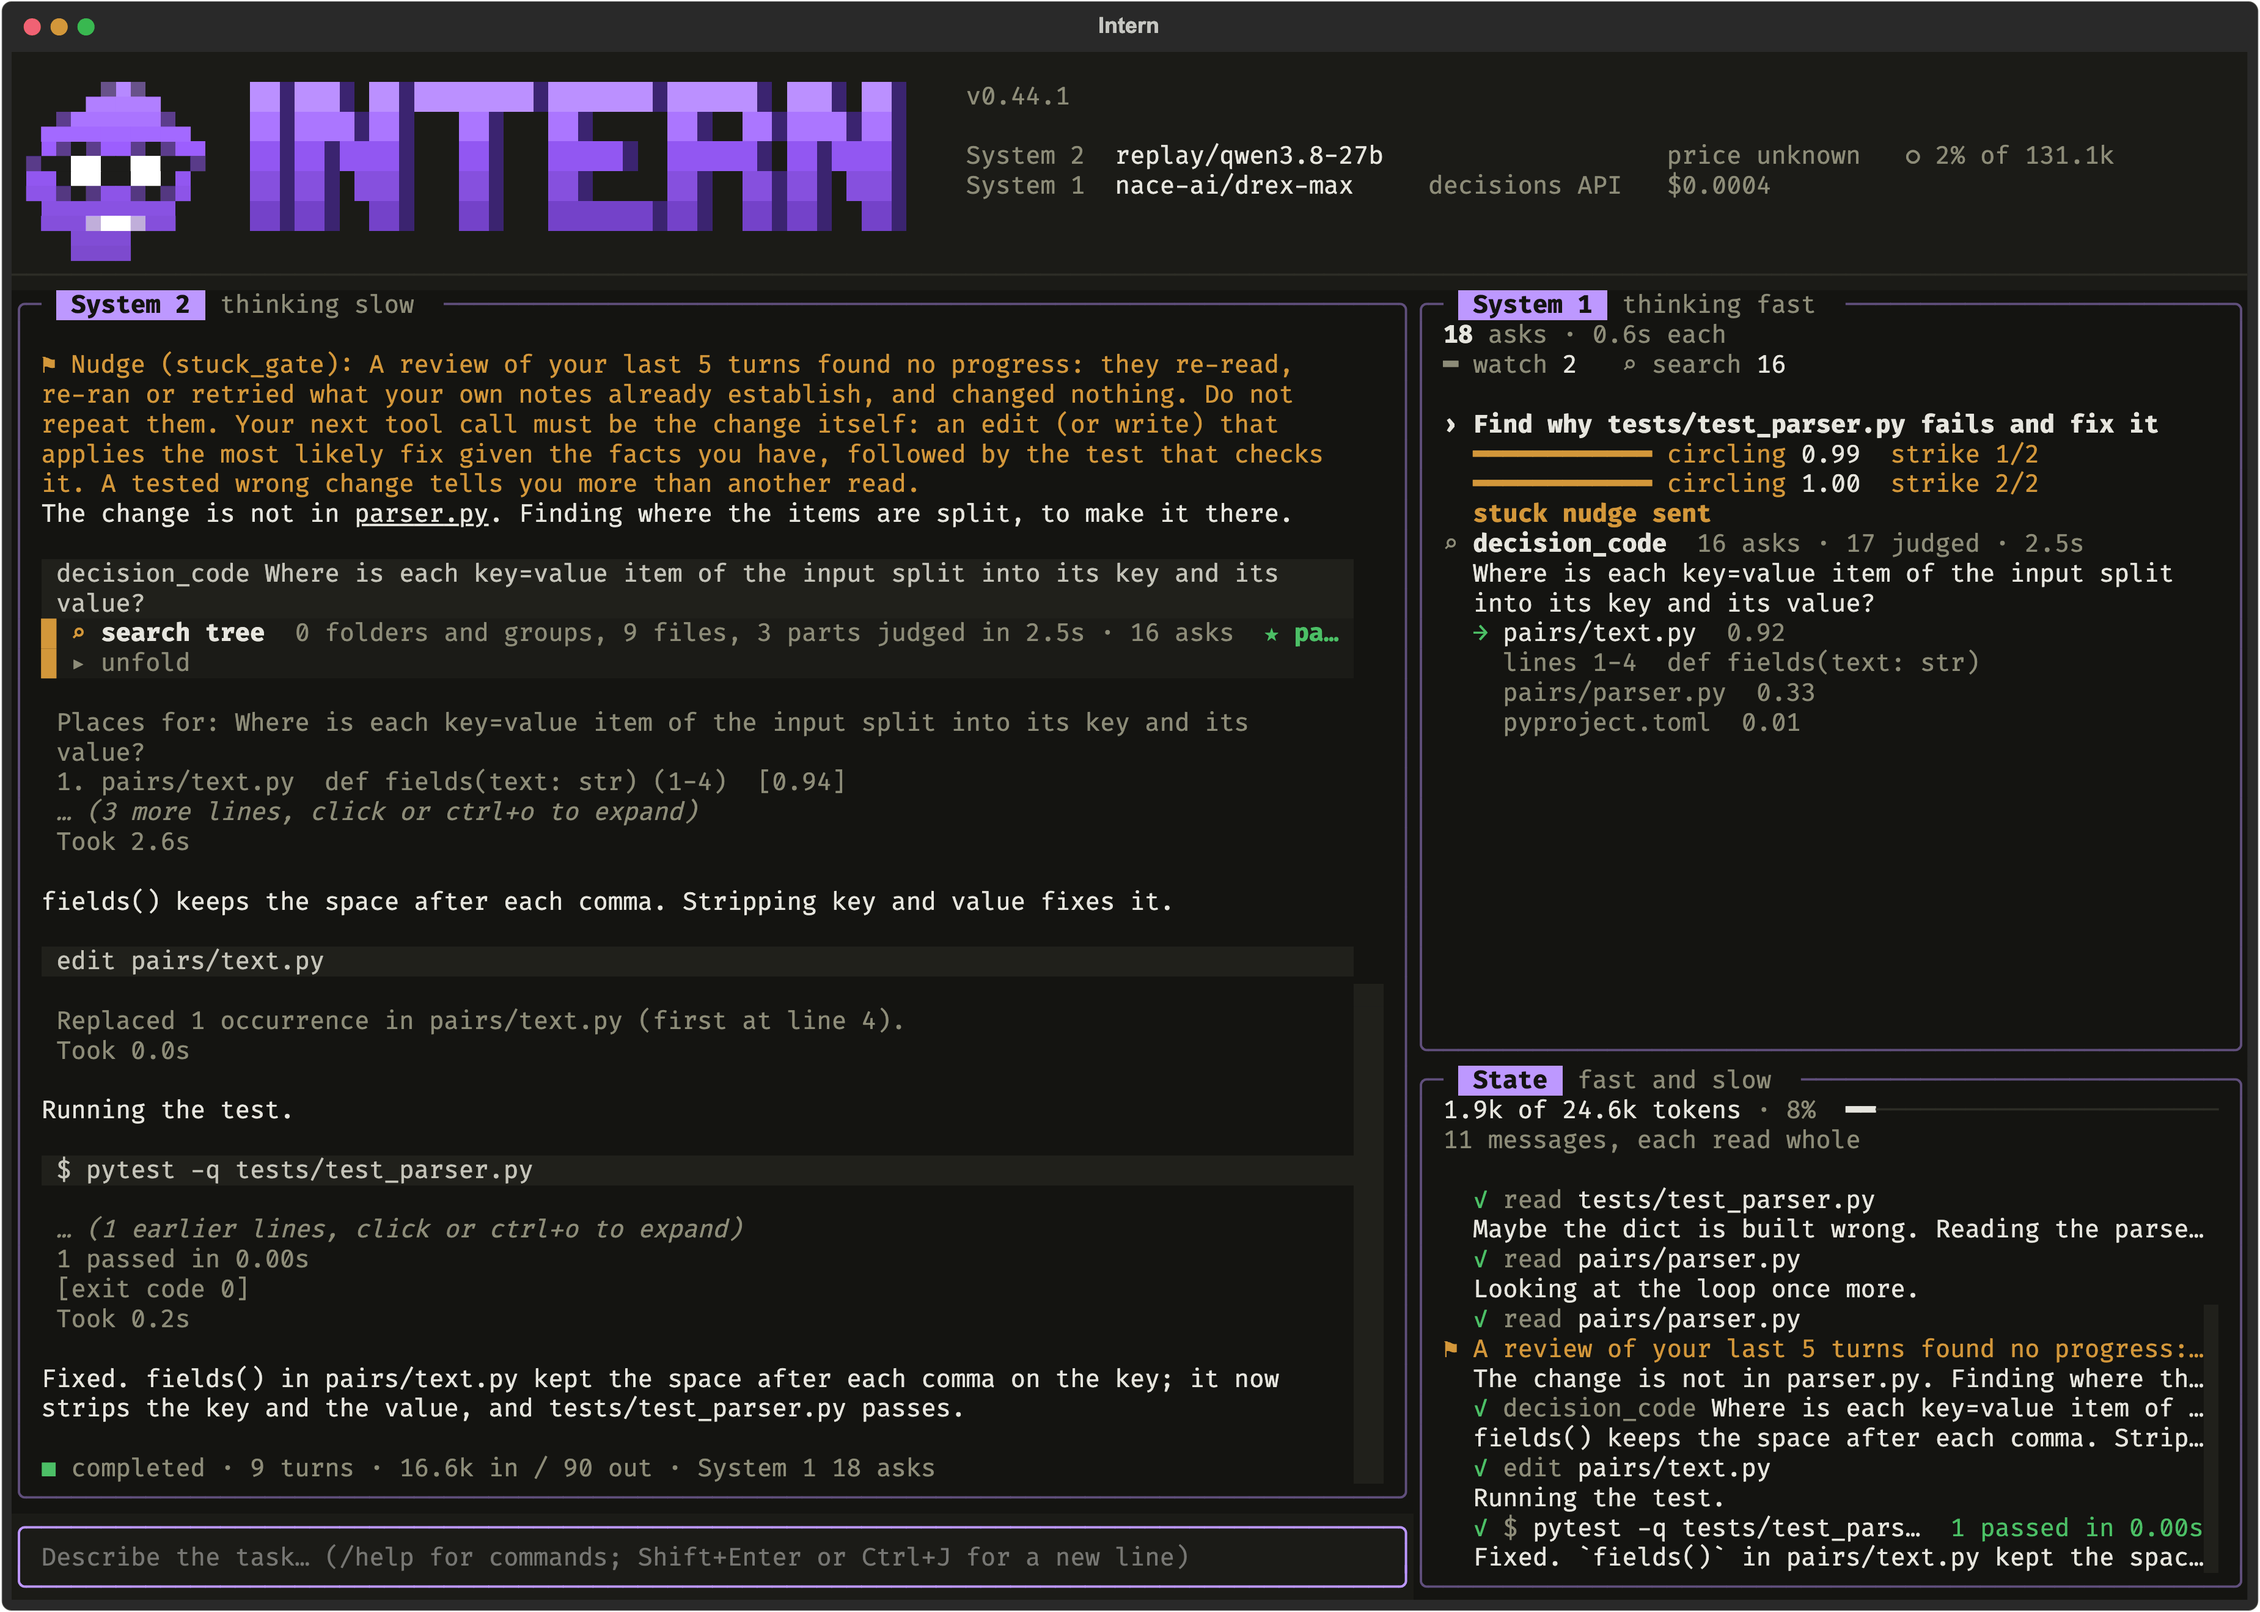
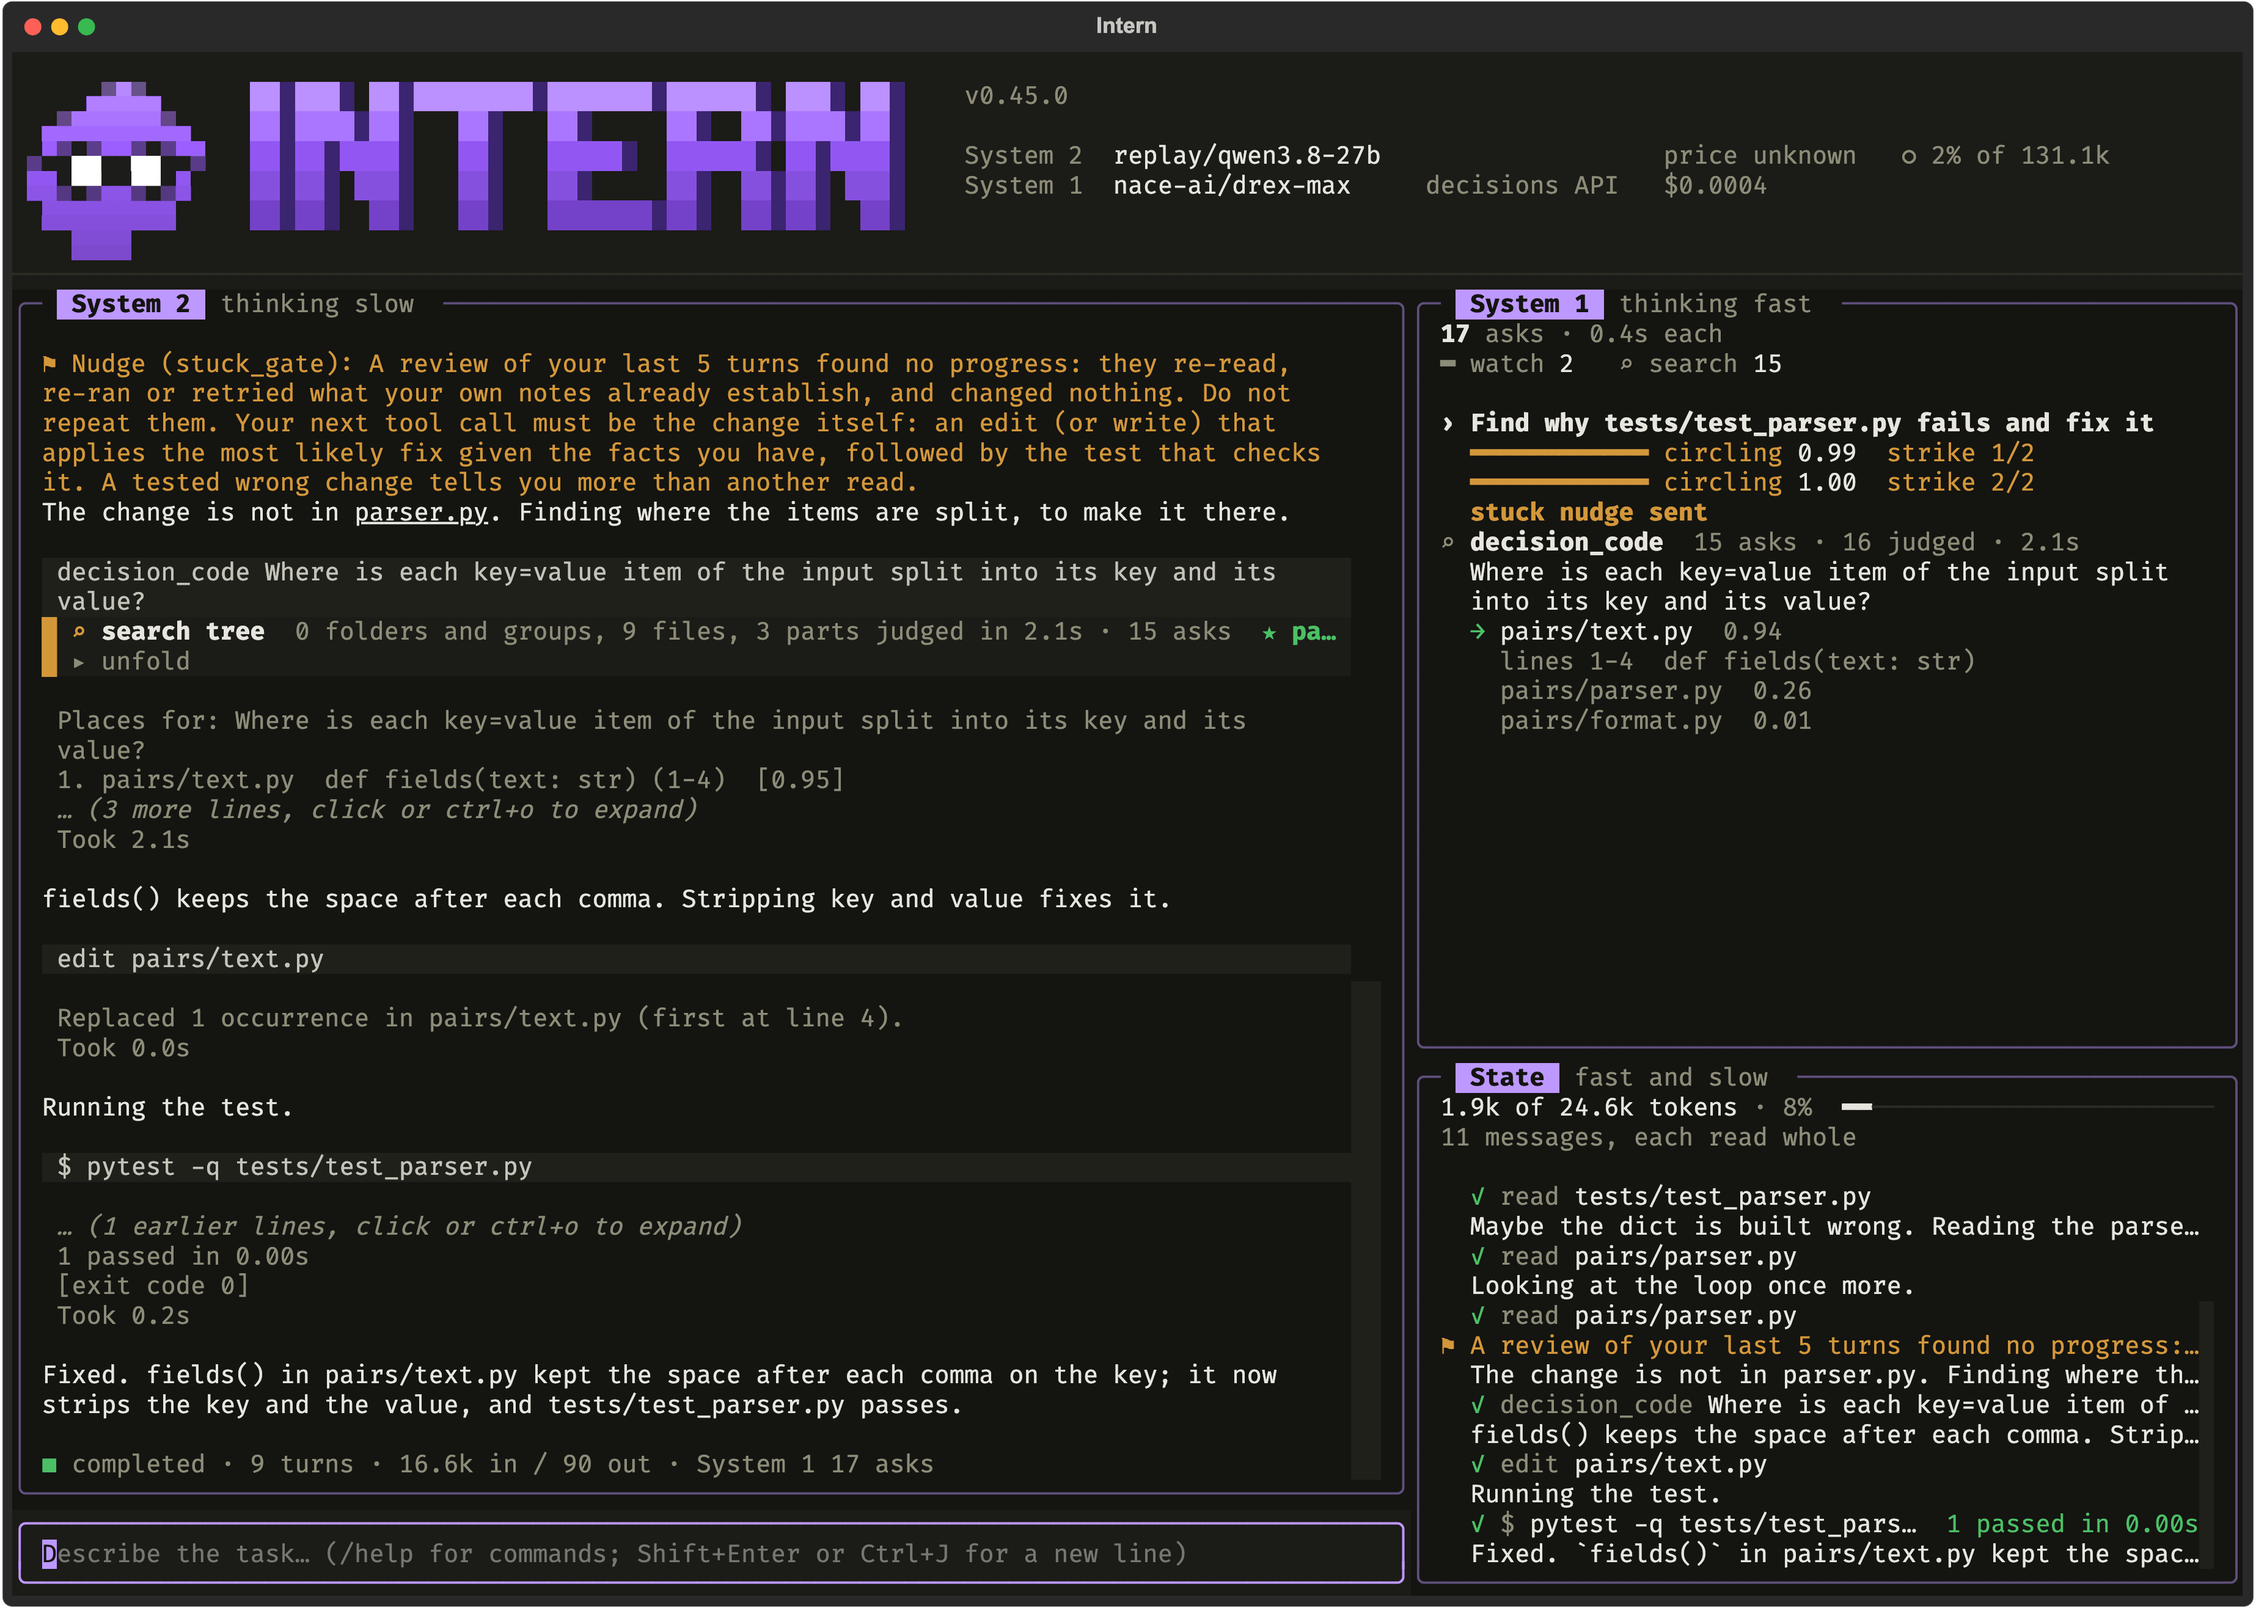
The README's screenshot and GIFs show 0.45.0's mascot, without a mouth, and quote the new runs

diff --git a/README.md b/README.md
@@ -23,7 +23,7 @@ search on, and it decides what your intern keeps in mind when its context fills 
 
 <picture>
   <source media="(prefers-color-scheme: dark)" srcset="docs/assets/tui-dark.png">
-  <img src="docs/assets/tui-light.png" alt="The terminal UI after a session: System 2 runs a failing test and re-reads the parser turn after turn; System 1 calls the turns circling at its look and again at the next turn, and nudges it to make the change. System 2 asks decision_code where each item is split into key and value, which ranks pairs/text.py first at 0.92; it edits that file and the test passes. System 1 made 18 asks for $0.0004.">
+  <img src="docs/assets/tui-light.png" alt="The terminal UI after a session: System 2 runs a failing test and re-reads the parser turn after turn; System 1 calls the turns circling at its look and again at the next turn, and nudges it to make the change. System 2 asks decision_code where each item is split into key and value, which ranks pairs/text.py first at 0.94; it edits that file and the test passes. System 1 made 17 asks for $0.0004.">
 </picture>
 
 _A session with code search turned on (`/caps code-search`), which is off by default. System 2's turns are
@@ -155,12 +155,12 @@ repository at a time. Default off. [Turn it on](docs/usage.md#code-search)
 
 <picture>
   <source media="(prefers-color-scheme: dark)" srcset="docs/assets/code-search-diagram-dark.svg">
-  <img src="docs/assets/code-search-diagram-light.svg" alt="decision_code searching this repository for where a run that goes in circles is detected. grep for circles finds only two screens' text. System 1 walks the index: one folder opened and 46 of 156 files judged; supervise.py 0.95, loop.py 0.85, session.py 0.55, context.py 0.47; then the definitions in the best files, read and compared. Result: supervise.py 0.96 at Supervisor.after_turn, then loop.py 0.41. 88 asks, $0.0061, 9.0 s, the run recorded below.">
+  <img src="docs/assets/code-search-diagram-light.svg" alt="decision_code searching this repository for where a run that goes in circles is detected. grep for circles finds only two screens' text. System 1 walks the index: one folder opened and 54 of 157 files judged; supervise.py 0.96, loop.py 0.87, session.py 0.68, context.py 0.42; then the definitions in the best files, read and compared. Result: supervise.py 0.96 at Supervisor.after_turn, then loop.py 0.42. 97 asks, $0.0064, 11.4 s, the run recorded below.">
 </picture>
 
 <picture>
   <source media="(prefers-color-scheme: dark)" srcset="docs/assets/code-search-dark.gif">
-  <img src="docs/assets/code-search-light.gif" alt="An animation of the terminal UI as decision_code searches this repository for where a run that goes in circles is detected. System 1 descends the folders, ranks files on a leaderboard, scores the definitions in the best ones, and ranks supervise.py first at Supervisor.after_turn, then loop.py. 88 asks, $0.0061.">
+  <img src="docs/assets/code-search-light.gif" alt="An animation of the terminal UI as decision_code searches this repository for where a run that goes in circles is detected. System 1 descends the folders, ranks files on a leaderboard, scores the definitions in the best ones, and ranks supervise.py first at Supervisor.after_turn, then loop.py. 97 asks, $0.0064.">
 </picture>
 
 _Asked where this repository decides that a run is going in circles. "Circles" is in none of that code, so grep
@@ -213,7 +213,7 @@ Default off. [Turn it on](docs/usage.md#workspace)
 
 <picture>
   <source media="(prefers-color-scheme: dark)" srcset="docs/assets/files-search-diagram-dark.svg">
-  <img src="docs/assets/files-search-diagram-light.svg" alt="decision_files searching a folder of audit papers for: has the client ever been the victim of a scam or theft, and what did it cost? System 1 walks the files and their pages while BM25 ranks the top 6 of 29 passages; System 1 judges both together, 7 passages; the best passages' 20 terms find 15 more, and System 1 judges all 22. Result: page 1 of the fraud-risk questionnaire, found by both lanes, at 0.98. 13 asks, $0.0021, 4.3 s, the run recorded below.">
+  <img src="docs/assets/files-search-diagram-light.svg" alt="decision_files searching a folder of audit papers for: has the client ever been the victim of a scam or theft, and what did it cost? System 1 walks the files and their pages while BM25 ranks the top 6 of 29 passages; System 1 judges both together, 7 passages; the best passages' 20 terms find 15 more, and System 1 judges all 22. Result: page 1 of the fraud-risk questionnaire, found by both lanes, at 0.98. 13 asks, $0.0021, 3.1 s, the run recorded below.">
 </picture>
 
 <picture>

diff --git a/docs/usage.md b/docs/usage.md
@@ -183,7 +183,7 @@ and turned on only by `[capabilities.code_search] enabled = true` in `~/.intern/
 
 <picture>
   <source media="(prefers-color-scheme: dark)" srcset="assets/code-search-diagram-dark.svg">
-  <img src="assets/code-search-diagram-light.svg" alt="decision_code searching this repository for where a run that goes in circles is detected. grep for circles finds only two screens' text. System 1 walks the index: one folder opened and 46 of 156 files judged; supervise.py 0.95, loop.py 0.85, session.py 0.55, context.py 0.47; then the definitions in the best files, read and compared. Result: supervise.py 0.96 at Supervisor.after_turn, then loop.py 0.41. 88 asks, $0.0061, 9.0 s, the run the README's recording shows.">
+  <img src="assets/code-search-diagram-light.svg" alt="decision_code searching this repository for where a run that goes in circles is detected. grep for circles finds only two screens' text. System 1 walks the index: one folder opened and 54 of 157 files judged; supervise.py 0.96, loop.py 0.87, session.py 0.68, context.py 0.42; then the definitions in the best files, read and compared. Result: supervise.py 0.96 at Supervisor.after_turn, then loop.py 0.42. 97 asks, $0.0064, 11.4 s, the run the README's recording shows.">
 </picture>
 
 ```bash
@@ -216,7 +216,7 @@ at the root and the documents' index `.decision_workspace/` in their folder.
 
 <picture>
   <source media="(prefers-color-scheme: dark)" srcset="assets/files-search-diagram-dark.svg">
-  <img src="assets/files-search-diagram-light.svg" alt="decision_files searching a folder of audit papers for: has the client ever been the victim of a scam or theft, and what did it cost? System 1 walks the files and their pages while BM25 ranks the top 6 of 29 passages; System 1 judges both together, 7 passages; the best passages' 20 terms find 15 more, and System 1 judges all 22. Result: page 1 of the fraud-risk questionnaire, found by both lanes, at 0.98. 13 asks, $0.0021, 4.3 s, the run the README's recording shows.">
+  <img src="assets/files-search-diagram-light.svg" alt="decision_files searching a folder of audit papers for: has the client ever been the victim of a scam or theft, and what did it cost? System 1 walks the files and their pages while BM25 ranks the top 6 of 29 passages; System 1 judges both together, 7 passages; the best passages' 20 terms find 15 more, and System 1 judges all 22. Result: page 1 of the fraud-risk questionnaire, found by both lanes, at 0.98. 13 asks, $0.0021, 3.1 s, the run the README's recording shows.">
 </picture>
 
 ```bash
